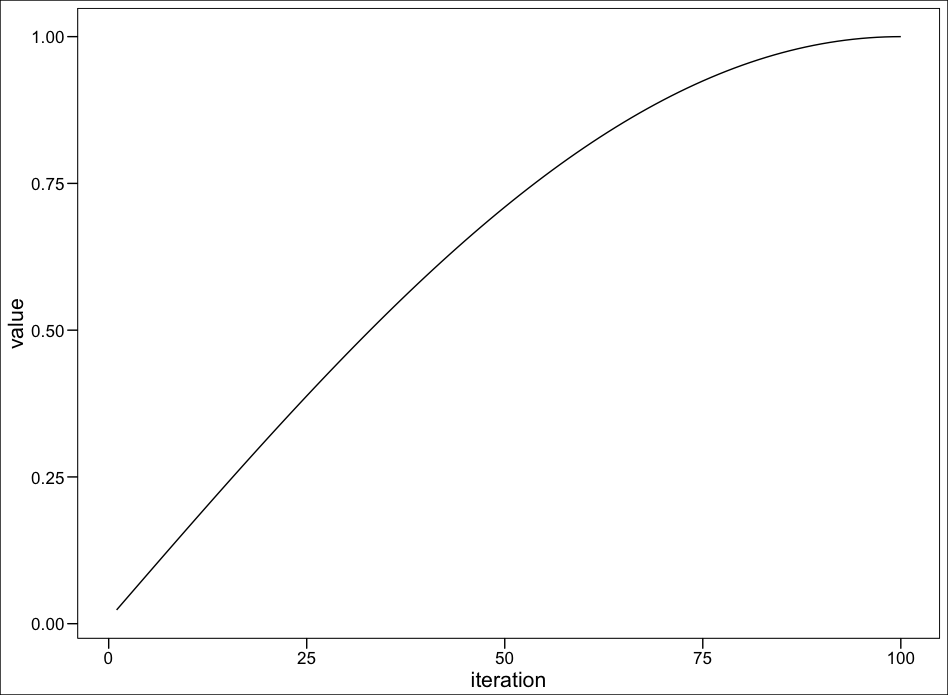
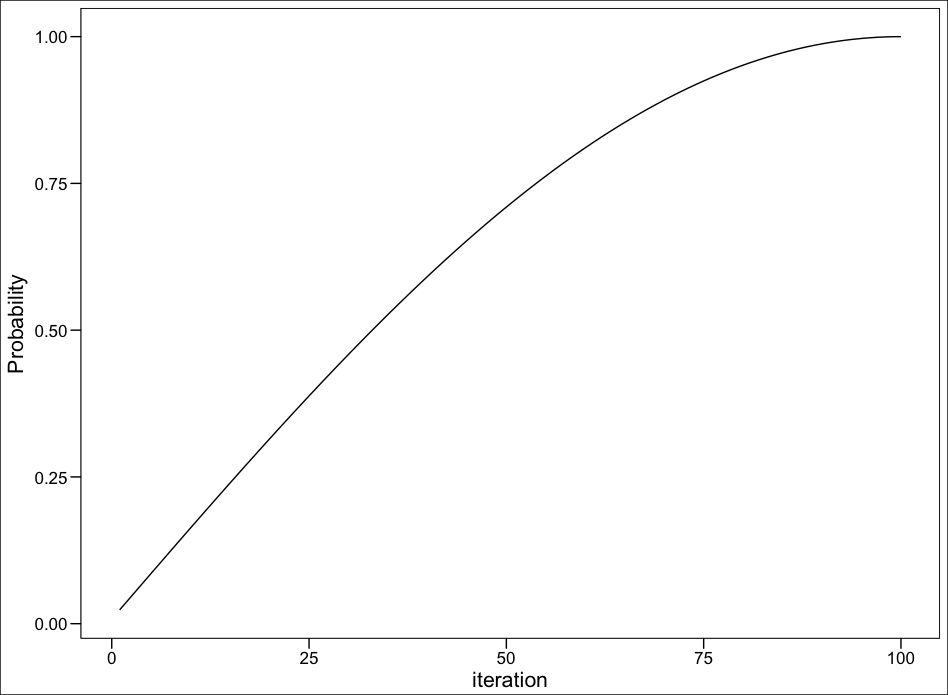
Plot for probability changed with xlab. Readme with full explanation

diff --git a/README.md b/README.md
@@ -1,2 +1,124 @@
-# quantumSystem
-A simple Quantum System in CPP through Rcpp intergafe
+# A Quantum System simulation with Rcpp
+
+A simple Quantum System in CPP through Rcpp interface. The code is based on the marvellous implementation of ["Quantum Computer Gate Playground"](http://davidbkemp.github.io/quantum-gate-playground/).
+
+A brief introduction to *Quantum Computing* can be found [here](pdf/tbd.pdf). This article provides a brief introduction to the main concepts and operations on a Quantum Computing. All concepts are mainly based on [Quantum Computing since Democritus](https://www.amazon.es/Quantum-Computing-since-Democritus-Aaronson/dp/0521199565) and these [lectures notes](https://cs.uwaterloo.ca/~watrous/CPSC519/LectureNotes/all.pdf).
+
+## Quantum system based on S4 Objects
+
+S4 objects are use in order to create a simple class to define a Quantum System with a vector representing qBits and one [Hadamard gate](https://en.wikipedia.org/wiki/Quantum_logic_gate#Hadamard_(H)_gate) to operate on the system itself.
+
+```r
+setClass (
+  # Class name
+  "QuantumSystem",
+
+  # Defining slot type
+  representation (
+    qbitVector = "numeric",
+    hadamardGate= "numeric"
+  ),
+
+  # Initializing slots
+  prototype = list(
+    qbitVector = NULL,
+    hadamardGate = NULL)
+)
+```
+
+From C code, we can direclty interact with S4 objects, for instance:
+
+```c
+S4 init_system(int nQubits) {
+  // Creating an object of QuantumSystem class
+  S4 x("QuantumSystem");
+  ....
+  x.slot("hadamardGate") = ....;
+  return(x);
+}
+```
+
+and also from R i easy to interact with S4 objects
+
+```r
+quaSys <- init_system(nQubits = 1)
+quaSys@hadamardGate
+```
+
+## Fast lineal agebra with RcppArmadillo
+
+As long as operations on qBits can be simulated by means of matrix operations, [RcppArmadillo](https://cran.r-project.org/web/packages/RcppArmadillo/index.html) provides an optimized way to applied optimized matrix operations. For instance, a *n-times* kron operation can be applied as follows:
+
+```c
+  //Kronecker tensor product
+  for(int i=0; i<nQubits-1; i++) {
+    Htimes = arma::kron(Htimes, H);
+  }
+```
+
+## Simple interaction with the quantum system
+
+1. Init the quantum system 
+```r
+# Init quantum system
+quaSys <- init_system(nQubits = 1)
+```
+
+2. System's meassurement (system collapses)
+```r
+meassurement(quaSys)
+# Notice the collapse produced
+quaSys@qbitVector
+```
+
+3. Apply Hadamard gate (quantum interferance)
+```r
+# Check qbit states
+firstQbits <- quaSys@qbitVector
+applyHadamard(quaSys) # Apply Hadamard gate
+secondQbits <- quaSys@qbitVector
+applyHadamard(quaSys) # Apply Hadamard gate
+# Check superpositions
+assertthat::assert_that(all(firstQbits != secondQbits))
+assertthat::are_equal(firstQbits, quaSys@qbitVector)
+```
+
+Note the *quantum interferance* effect, when Hadamard gate is applied twice, as follows:
+
+<img src="img/quantum_interference.png" width="500" alt="Quantum interference">
+
+
+## Quantum search on two qBits system
+
+The next figure graphically represents, how using operations provided in this simulator one state can be searched. Concepts like Hadamard gates, phase flip or quantum cancellation are used.
+
+<img src="img/quantum_search.png" width="600" alt="Quantum search">
+
+
+## An example of Grover’s algorithm
+
+As example, Grover's algorithm is implemented following the next pseudocode:
+
+
+<img src="img/grovers_pseudocode.png" width="500" alt="Grover's pseudocode">
+
+
+```r
+# Init quantum system
+quaSys <- init_system(nQubits = 13)
+# Grover's search
+for (i in seq(100)){
+  # Set target through oracle function
+  applyOracleFunction(quaSys, target = 1022)
+  # Apply hadamard
+  applyHadamard(quaSys)
+  # Apply difusion
+  applyDifussion(quaSys)
+  # Apply hadamard
+  applyHadamard(quaSys)
+}
+```
+
+The next figure shows how the probability on the target qBit is higer in each iteration:
+
+<img src="img/qbit_probability.png" width="500" alt="Probability on the target qBit">
